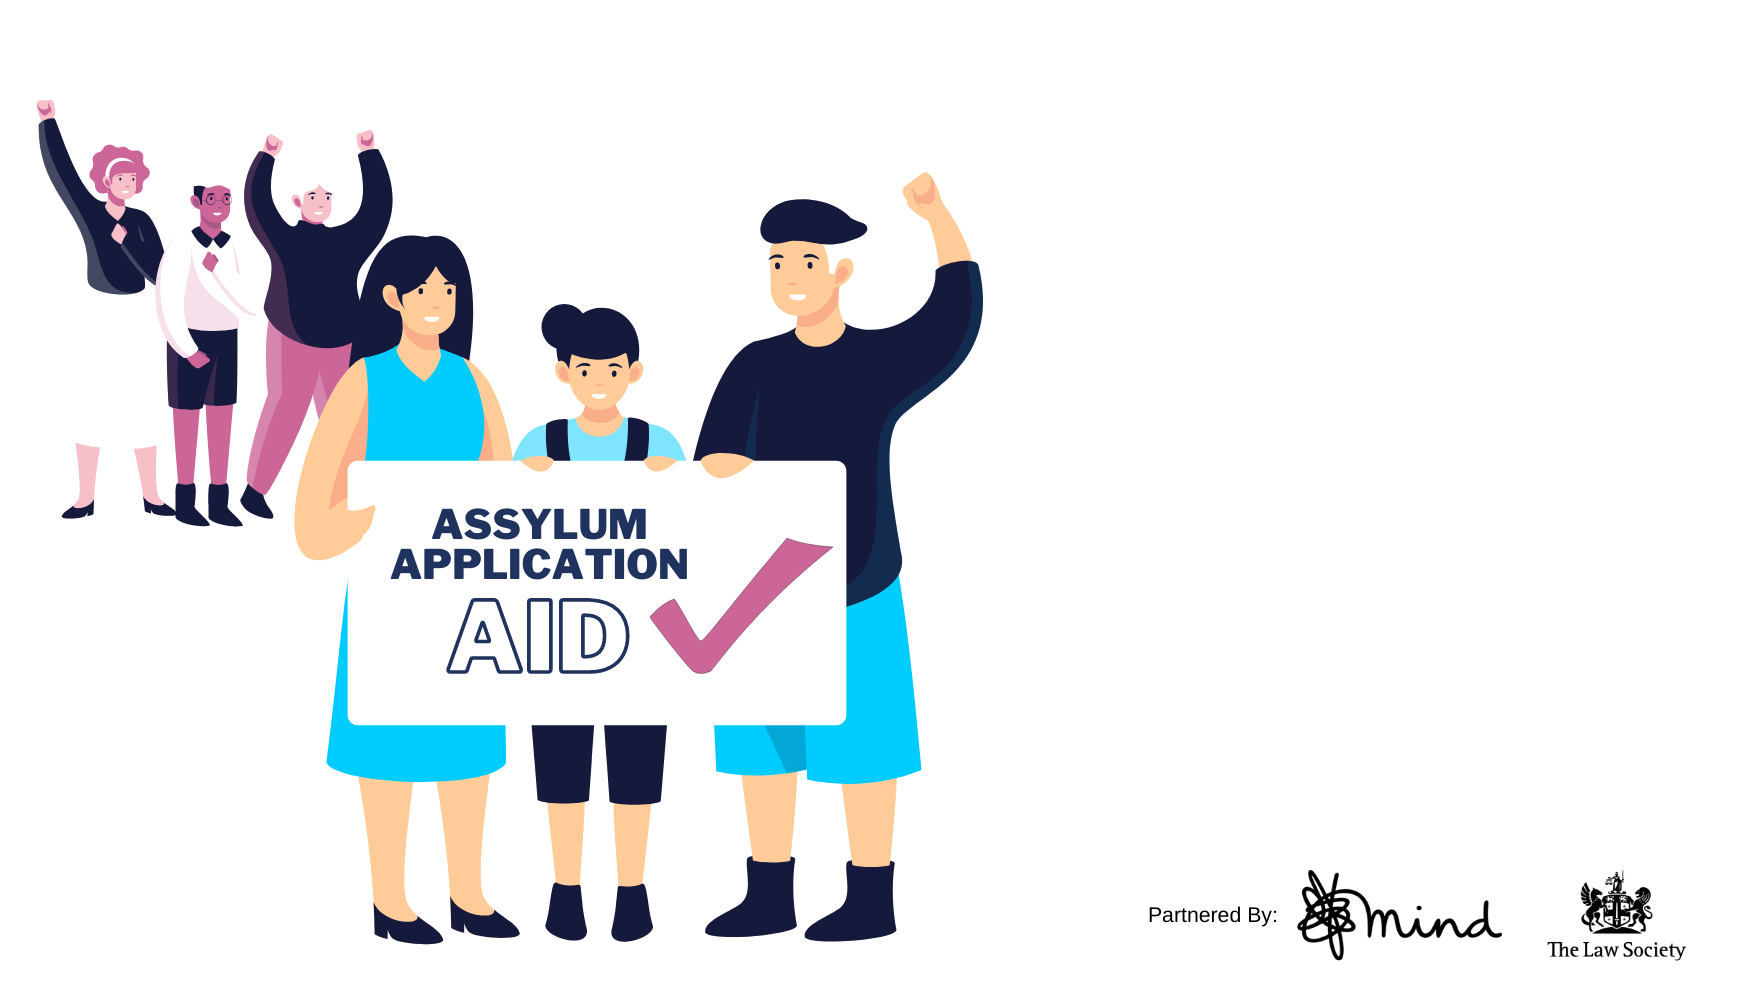
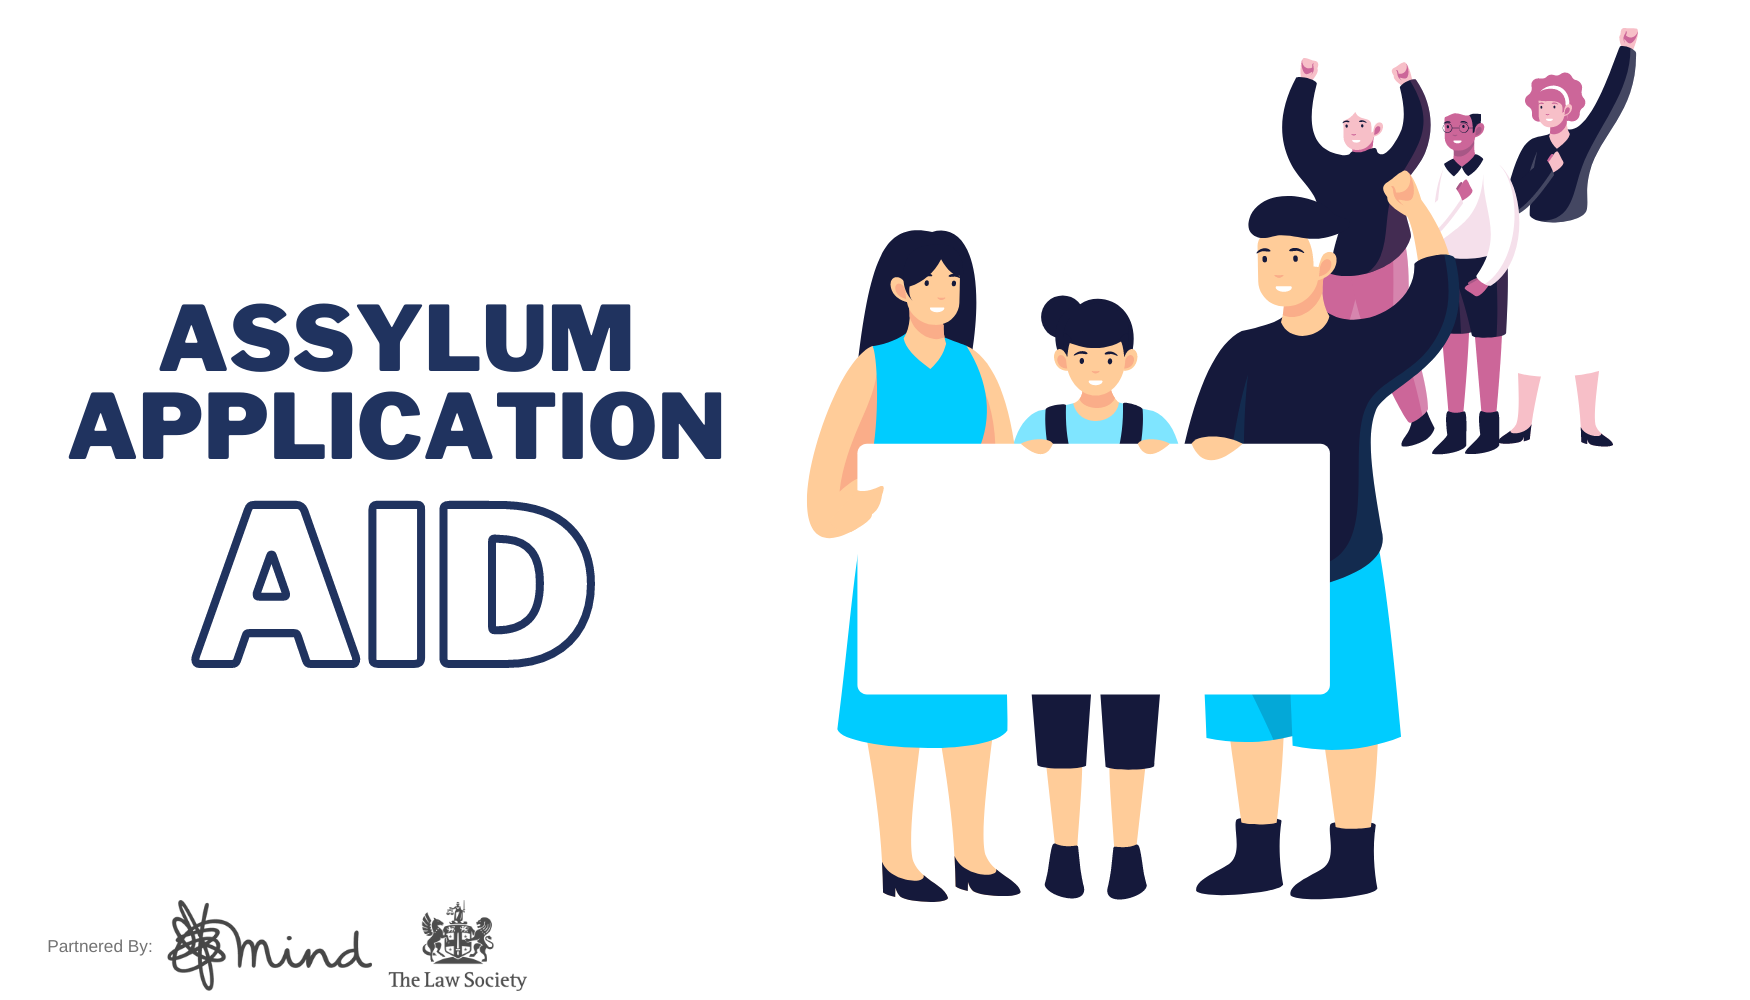
Fixed home page

Changed region(s): [[0.0, 0.031, 0.9566, 0.992], [0.8949, 0.868, 0.9566, 0.961]]

diff --git a/docs/index.html b/docs/index.html
@@ -2,37 +2,32 @@
 <html>
     <head>
         <title>AAA</title>
-        <meta name="viewport" content="width=device-width, initial-scale=1.0">
-        <link rel="stylesheet" href="https://stackpath.bootstrapcdn.com/bootstrap/4.3.1/css/bootstrap.min.css" integrity="sha384-ggOyR0iXCbMQv3Xipma34MD+dH/1fQ784/j6cY/iJTQUOhcWr7x9JvoRxT2MZw1T" crossorigin="anonymous">
-        <script src="https://code.jquery.com/jquery-3.3.1.slim.min.js" integrity="sha384-q8i/X+965DzO0rT7abK41JStQIAqVgRVzpbzo5smXKp4YfRvH+8abtTE1Pi6jizo" crossorigin="anonymous"></script>
-        <script src="https://cdnjs.cloudflare.com/ajax/libs/popper.js/1.14.7/umd/popper.min.js" integrity="sha384-UO2eT0CpHqdSJQ6hJty5KVphtPhzWj9WO1clHTMGa3JDZwrnQq4sF86dIHNDz0W1" crossorigin="anonymous"></script>
-        <script src="https://stackpath.bootstrapcdn.com/bootstrap/4.3.1/js/bootstrap.min.js" integrity="sha384-JjSmVgyd0p3pXB1rRibZUAYoIIy6OrQ6VrjIEaFf/nJGzIxFDsf4x0xIM+B07jRM" crossorigin="anonymous"></script>
-        <script src="https://kit.fontawesome.com/48b9fa1487.js" crossorigin="anonymous"></script>
+        <meta name="viewport" content="width=device-width, initial-scale=1">
+        <link rel="stylesheet" href="https://cdnjs.cloudflare.com/ajax/libs/font-awesome/4.7.0/css/font-awesome.min.css">
         <link rel="stylesheet" href="main.css"></link>
     </head>
     <body>
-        <main>
-            <div class="bg">
-                <div class="navbar">
-                    <a href="#info">Application Information</a>
-                    <a href="#checker">Elegibility Checker</a>
-                    <a href="#about">About us</a>
-                    <a href="#partners">Partners</a>
-                    <div class="dropdown">
-                        <button class="dropbtn">English
-                            <i class="fa fa-caret-down"></i>
-                        </button>
-                        <div class="dropdown-content">
-                            <a href="#">Arabic</a>
-                            <a href="#">Spanish</a>
-                            <a href="#">Dari</a>
-                            <a href="#">Pashto</a>
-                            <a href="#">Burmese</a>
-                        </div>
+        <div class="bg">
+            <div class="navbar">
+                <a href="#info">Application Information</a>
+                <a href="#checker">Elegibility Checker</a>
+                <a href="#about">About us</a>
+                <a href="#partners">Partners</a>
+                <div class="dropdown">
+                    <button class="dropbtn">English
+                        <i class="fa fa-caret-down"></i>
+                    </button>
+                    <div class="dropdown-content">
+                        <a href="#">Arabic</a>
+                        <a href="#">Spanish</a>
+                        <a href="#">Dari</a>
+                        <a href="#">Pashto</a>
+                        <a href="#">Burmese</a>
                     </div>
                 </div>
             </div>
-        </main>
-        <footer></footer>
+                <button class="selection1">Check your Elegibility</button>
+                <button class="selection2">Find out more</button>
+        </div>
     </body>
 </html>

diff --git a/docs/main.css b/docs/main.css
@@ -4,6 +4,7 @@ html {
 
 body {
     font-family: Helvetica, sans-serif;
+    margin : 0px;
 }
 
 .bg {
@@ -24,13 +25,12 @@ body {
     font-size: 20px;
     color: white;
     text-align: center;
-    padding: 14px 16px;
+    padding: 18px 16px;
     text-decoration: none;
-    margin: 0;
 }
 
 .dropdown {
-    float: left;
+    float: right;
     overflow: hidden;
 }
 
@@ -39,7 +39,7 @@ body {
     border: none;
     outline: none;
     color: white;
-    padding: 14px 16px;
+    padding: 18px 16px;
     background-color: inherit;
     font-family: inherit;
     margin: 0;
@@ -74,3 +74,36 @@ body {
 .dropdown:hover .dropdown-content {
     display: block;
 }
+
+.selection1{
+    position: absolute;
+    bottom: 315px;
+    right: 415px;
+    font-size: 24px;  
+    border: none;
+    outline: none;
+    color: white;
+    background-color: #CC6699;
+    font-family: inherit;
+    margin: 0;
+    height: 80px;
+    width:300px;
+    border-radius: 25px;
+}
+
+.selection2{
+    position: absolute;
+    bottom: 410px;
+    right: 415px;
+    font-size: 24px;  
+    border: none;
+    outline: none;
+    color: white;
+    background-color: #CC6699;
+    font-family: inherit;
+    margin: 0;
+    height: 80px;
+    width:300px;
+    border-radius: 25px;
+}
+
